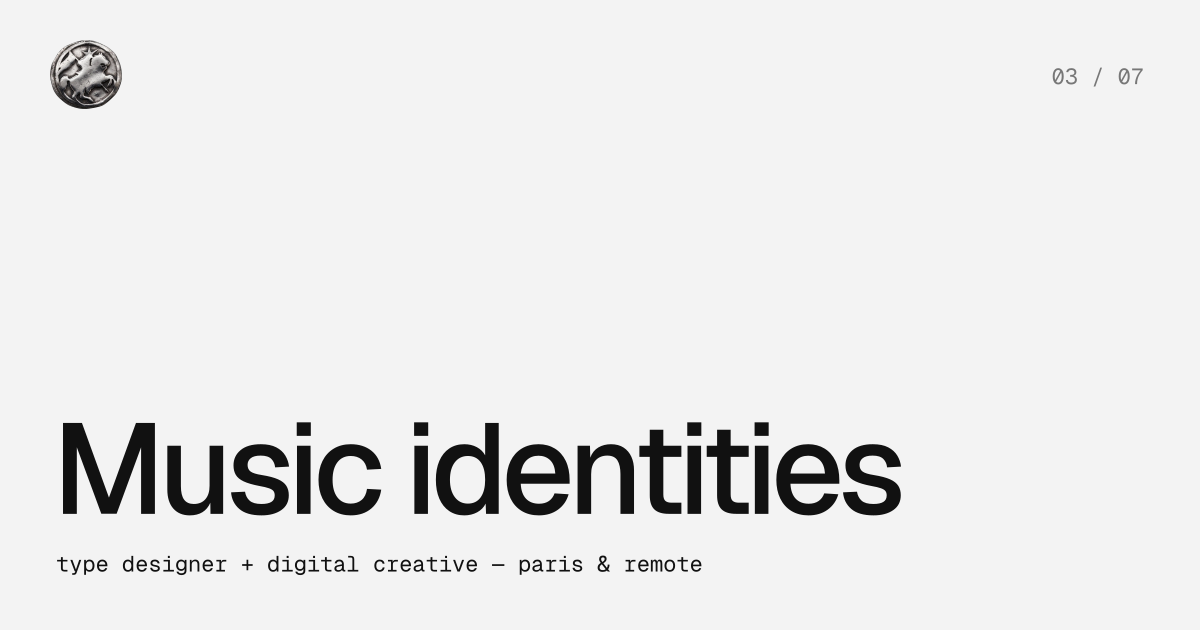
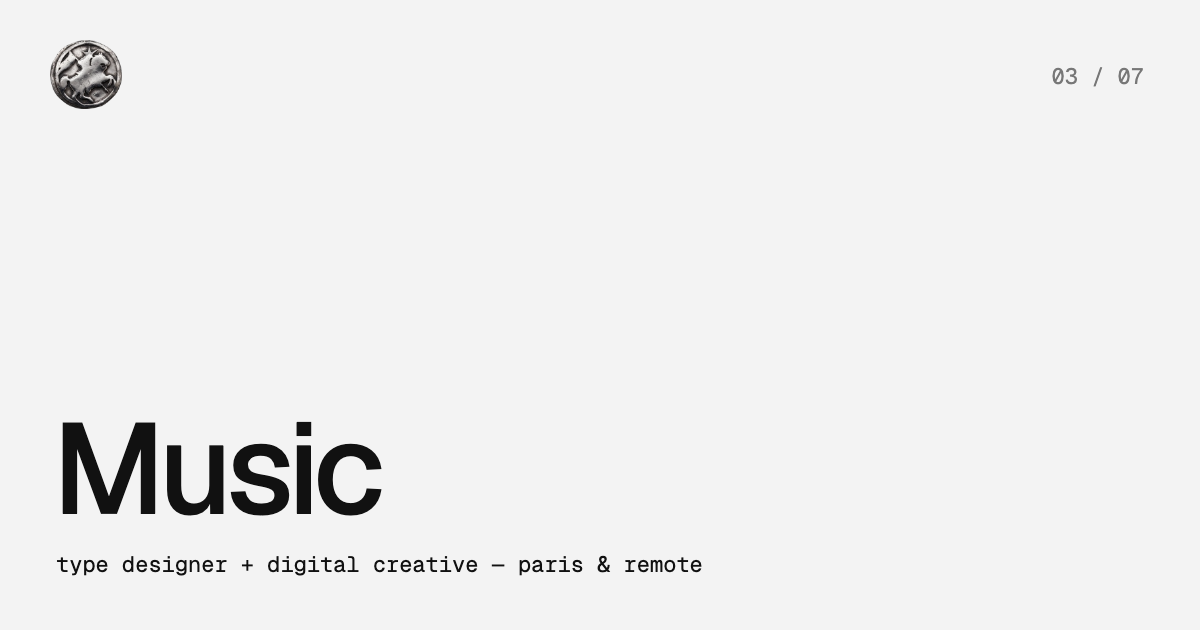
Projets : Sports Aventure a pour objet sa boussole gravée SA (photo) ; objets 15 % plus gros, leur taille plafonnée par la hauteur de l'écran (un écran bas ne les fait plus déborder sur les libellés). Page de garde des études : l'objet à droite, plus gros, même surface pour tous. Libellé « (← projet

diff --git a/src/data/projects.ts b/src/data/projects.ts
@@ -1,4 +1,4 @@
-// Études de cas, dans l'ordre choisi le 08/11 : Heraldry, (ChâteauStudio)™, Identités musicales, ASAPHR, kern.outdoor, BMS, Sports Aventure.
+// Études de cas, dans l'ordre choisi le 08/11 : Heraldry, (ChâteauStudio)™, Musique (ex-Identités musicales), ASAPHR, kern.outdoor, BMS, Sports Aventure.
 // Chacune : en-tête (meta) · accroche (lead, note) · sections dans l'ordre des écrans de sa mise en page propre (src/components/case/).
 
 type Para = { t?: string; p: string };
@@ -122,7 +122,7 @@ const all: Project[] = [
     yearLabel: '2020–26',
     object: 'vinyl',
     fr: {
-      title: 'Identités musicales',
+      title: 'Musique',
       short: 'Du lettrage au vinyle',
       meta: { year: 'Depuis 2020', context: "Collectif d'artistes, puis artistes indépendants", role: 'Direction artistique, identité, lettrage, print, merch', tools: 'Illustrator, Photoshop, Procreate, TouchDesigner' },
       lead: "Identités visuelles de sorties hip-hop et électro underground, de la pochette au merch.",
@@ -140,7 +140,7 @@ const all: Project[] = [
       ],
     },
     en: {
-      title: 'Music identities',
+      title: 'Music',
       short: 'From lettering to vinyl',
       meta: { year: 'Since 2020', context: 'Artist collective, then independent artists', role: 'Art direction, identity, lettering, print, merch', tools: 'Illustrator, Photoshop, Procreate, TouchDesigner' },
       lead: "Visual identities for underground hip-hop and electronic releases, from cover to merch.",

diff --git a/src/data/objects.ts b/src/data/objects.ts
@@ -6,5 +6,6 @@ export const photos: Partial<Record<string, [string, number, number]>> = {
   vinyl: ['/work/music-identities/object.webp', 1200, 809],
   backpack: ['/work/kern-outdoor/object.webp', 1200, 907],
   crest: ['/work/bms-esport/object.webp', 1000, 1241],
+  compass: ['/work/sports-aventure/object.webp', 1200, 876],
 };
 export const aspect = (kind: string) => { const p = photos[kind]; return p ? p[1] / p[2] : 1; }; // largeur / hauteur
